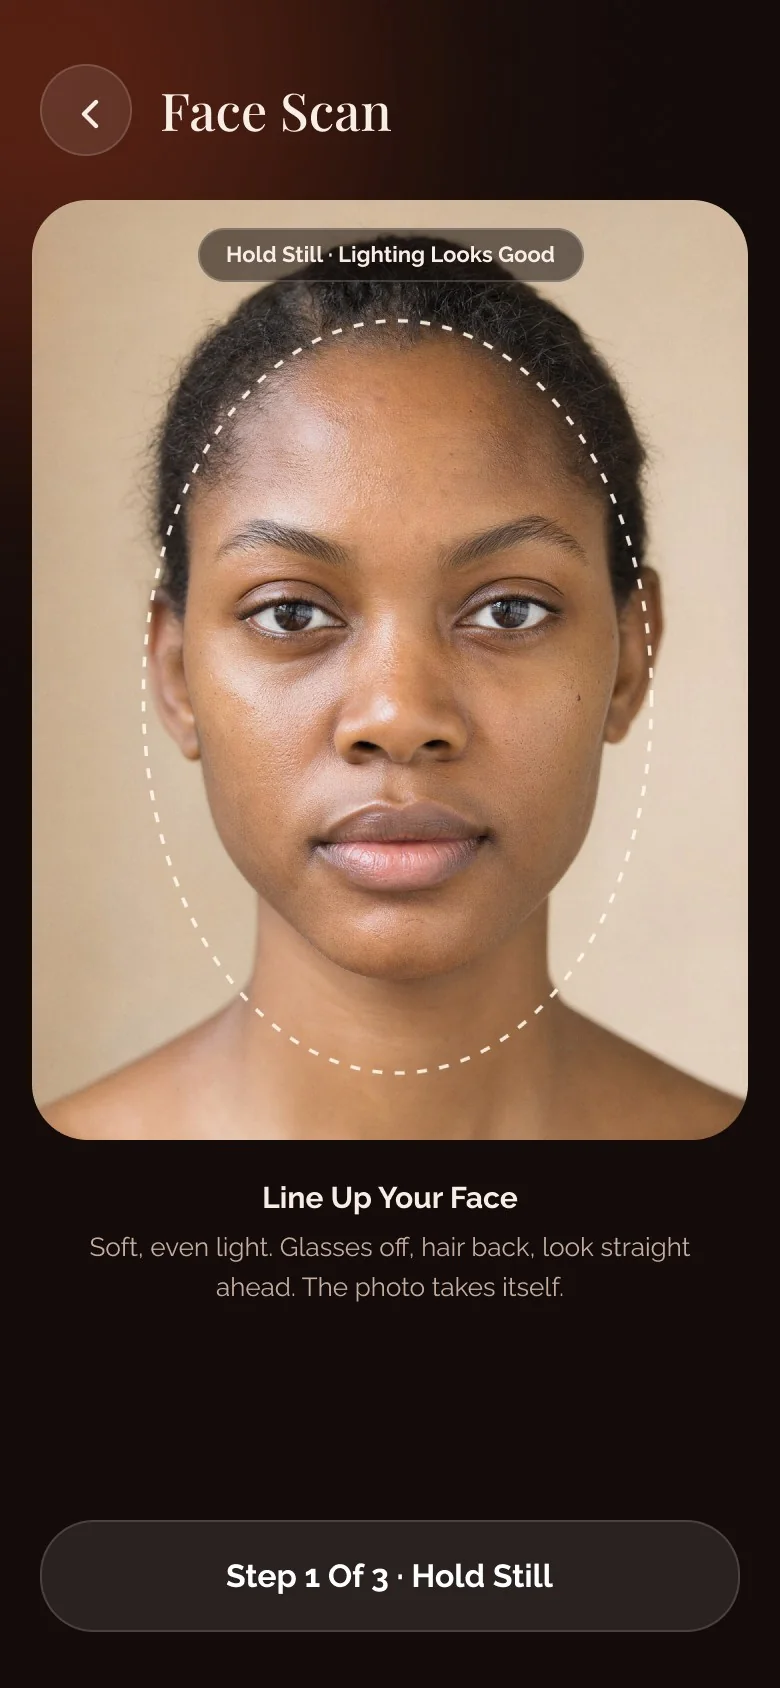
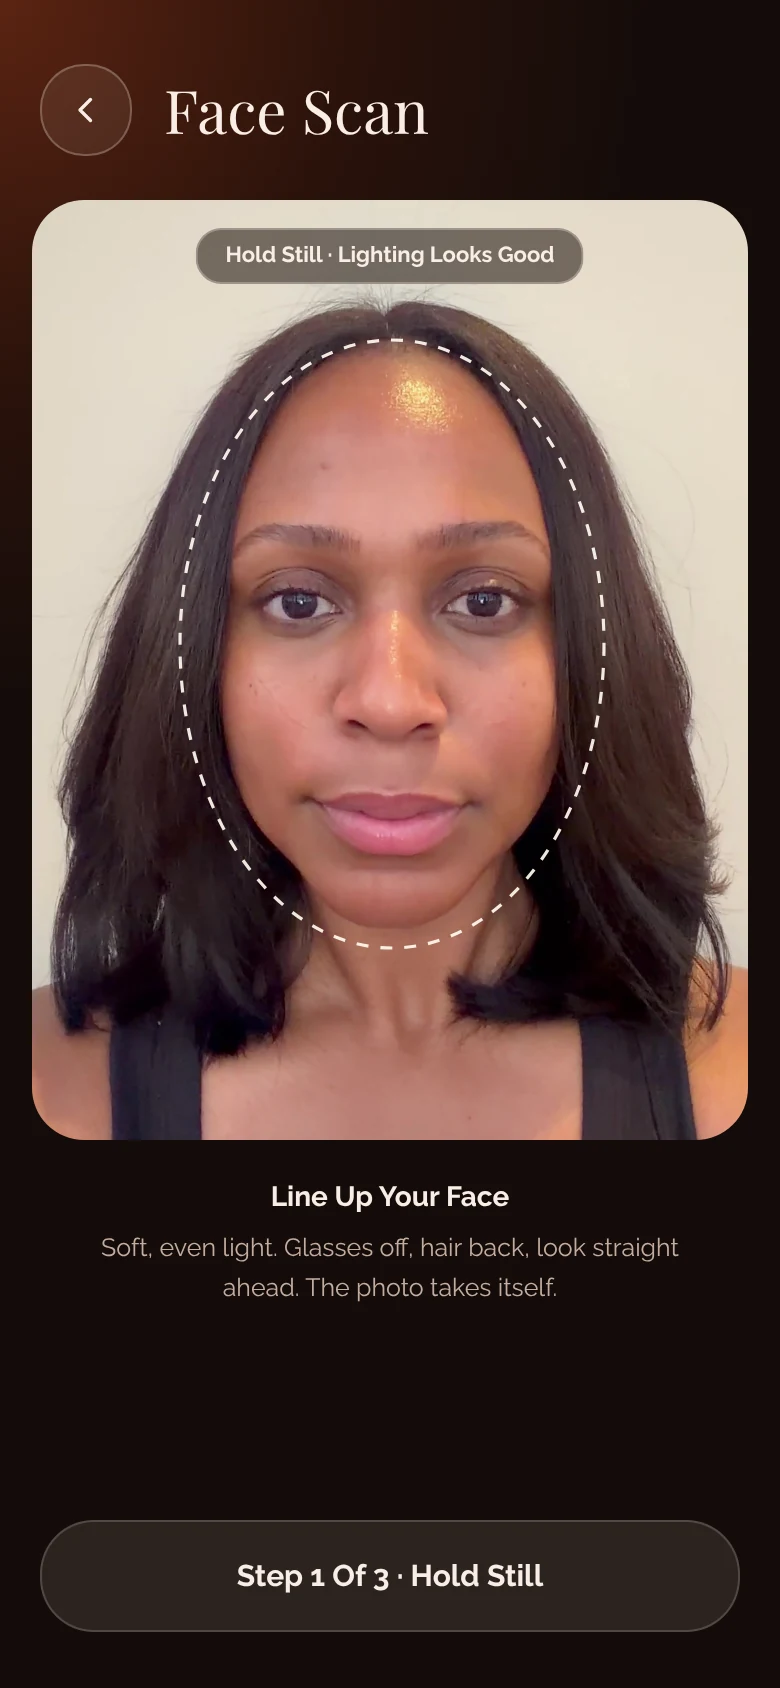
Homepage: real-face scan screens (Jelyn) with new heat map and ring-tile report
Replaces the AI-generated face on Face Scan and Skin Map, and the old
bar-graph Skin Report, in the hero walkthrough, How It Works and the
scroll story. Screens are captured from the live /test flow run on a
still from Jelyn's own video (Skin Score 66), so every score matches
across screens.

Claude-Session: https://claude.ai/code/session_01HJqh9kkP3HDootuyJF4W83

diff --git a/index.html b/index.html
@@ -129,7 +129,7 @@ img{max-width:100%}
 .demo-sweep{position:absolute;left:6%;right:6%;top:12%;height:2px;border-radius:2px;background:linear-gradient(90deg,transparent,#FFD530,transparent);box-shadow:0 0 18px 4px rgba(255,213,48,.45);opacity:0}
 .demo-screen.is-active .demo-sweep{animation:demoSweep 1.6s ease-in-out .3s 2}
 @keyframes demoSweep{0%{top:12%;opacity:0}10%{opacity:1}90%{opacity:1}100%{top:52%;opacity:0}}
-.demo-ping{position:absolute;left:50%;top:44%;width:46px;height:46px;margin:-23px 0 0 -23px;border-radius:50%;border:2px solid rgba(255,213,48,.9);opacity:0}
+.demo-ping{position:absolute;left:50%;top:33%;width:46px;height:46px;margin:-23px 0 0 -23px;border-radius:50%;border:2px solid rgba(255,213,48,.9);opacity:0}
 .demo-screen.is-active .demo-ping{animation:demoPing 1.6s ease-out .5s 3}
 @keyframes demoPing{0%{transform:scale(.5);opacity:0}25%{opacity:1}100%{transform:scale(1.9);opacity:0}}
 .demo-screen[data-k="map"].is-active img{animation:demoZoom 4s ease-in-out both}
@@ -377,9 +377,9 @@ img{max-width:100%}
 <div class="float" style="position: relative; z-index: 2">
 <div class="phone-tilt" style="width: 300px; border-radius: 52px; padding: 10px; background: linear-gradient(160deg, #3a2a20, #0B0604 40%, #1a110c); box-shadow: 0 70px 120px rgba(0,0,0,0.65), 0 0 0 1px rgba(255,251,247,0.14), inset 0 1px 0 rgba(255,251,247,0.2); transform: perspective(1600px) rotateY(-14deg) rotateX(5deg) rotateZ(2deg)">
 <div class="demo" id="demo" role="group" aria-roledescription="app walkthrough" aria-label="Pulse app walkthrough: scan, heat map, results, routine and home">
-<div class="demo-screen is-active" data-k="scan"><img src="/assets/home/scan-lineup.webp" alt="Pulse Face Scan: line up your face" fetchpriority="high"><span class="demo-sweep" aria-hidden="true"></span></div>
-<div class="demo-screen" data-k="map"><img src="/assets/home/scan-heatmap.webp" alt="Pulse heat map showing pores on the nose with a score of 65"><span class="demo-ping" aria-hidden="true"></span></div>
-<div class="demo-screen demo-scroll" data-k="results"><img src="/assets/home/skin-report-full.webp" alt="Pulse Skin Report: skin score 73, focus areas, doing well and what it means" loading="lazy"></div>
+<div class="demo-screen is-active" data-k="scan"><img src="/assets/home/scan-lineup.webp" alt="Pulse Face Scan: Jelyn lining up her face" fetchpriority="high"><span class="demo-sweep" aria-hidden="true"></span></div>
+<div class="demo-screen" data-k="map"><img src="/assets/home/scan-heatmap.webp" alt="Pulse Skin Map: a soft heat map on Jelyn's face showing pores on the T-zone, scored 40"><span class="demo-ping" aria-hidden="true"></span></div>
+<div class="demo-screen demo-scroll" data-k="results"><img src="/assets/home/skin-report-full.webp" alt="Pulse Skin Report: skin score 66, with Focus First and Doing Well score tiles" loading="lazy"></div>
 <div class="demo-screen" data-k="routine"><img src="/assets/home/todays-routine.webp" alt="Pulse Today screen with a four-step AM routine" loading="lazy"></div>
 <div class="demo-screen" data-k="home"><img src="/assets/home/home-morning.webp" alt="Pulse Home screen: skin score 81, up 8 this month" loading="lazy"></div>
 </div>
@@ -476,7 +476,7 @@ img{max-width:100%}
 
 <div style="flex: none; width: 236px; scroll-snap-align: start; display: flex; flex-direction: column; gap: 16px">
 <div style="border-radius: 38px; padding: 7px; background: #120906; box-shadow: 0 24px 48px rgba(38,16,0,0.2)">
-<img loading="lazy" decoding="async" src="/assets/home/scan-lineup.webp" alt="Pulse app Face Scan screen with the Line Up Your Face guide" style="display: block; width: 100%; height: auto; border-radius: 31px">
+<img loading="lazy" decoding="async" src="/assets/home/scan-lineup.webp" alt="Pulse app Face Scan screen with Jelyn lining up her face" style="display: block; width: 100%; height: auto; border-radius: 31px">
 </div>
 <div>
 <p style="margin: 0; font-family: 'Gilda Display', Georgia, serif; font-size: 15px; color: #882E1A">01</p>
@@ -487,7 +487,7 @@ img{max-width:100%}
 
 <div style="flex: none; width: 236px; scroll-snap-align: start; display: flex; flex-direction: column; gap: 16px">
 <div style="border-radius: 38px; padding: 7px; background: #120906; box-shadow: 0 24px 48px rgba(38,16,0,0.2)">
-<img src="/assets/home/scan-heatmap.webp" alt="Pulse app Face Scan heat map screen showing pores on the nose" style="display: block; width: 100%; height: auto; border-radius: 31px">
+<img src="/assets/home/scan-heatmap.webp" alt="Pulse app Skin Map with a soft heat map showing pores on the T-zone" style="display: block; width: 100%; height: auto; border-radius: 31px">
 </div>
 <div>
 <p style="margin: 0; font-family: 'Gilda Display', Georgia, serif; font-size: 15px; color: #882E1A">02</p>
@@ -498,7 +498,7 @@ img{max-width:100%}
 
 <div style="flex: none; width: 236px; scroll-snap-align: start; display: flex; flex-direction: column; gap: 16px">
 <div style="border-radius: 38px; padding: 7px; background: #120906; box-shadow: 0 24px 48px rgba(38,16,0,0.2)">
-<img loading="lazy" decoding="async" src="/assets/home/skin-report.webp" alt="Pulse app Skin Report screen with a skin score of 73 and focus areas" style="display: block; width: 100%; height: auto; border-radius: 31px">
+<img loading="lazy" decoding="async" src="/assets/home/skin-report.webp" alt="Pulse app Skin Report with a skin score of 66 and score tiles for each measure" style="display: block; width: 100%; height: auto; border-radius: 31px">
 </div>
 <div>
 <p style="margin: 0; font-family: 'Gilda Display', Georgia, serif; font-size: 15px; color: #882E1A">03</p>
@@ -565,11 +565,11 @@ img{max-width:100%}
 <div style="position: relative; width: 300px; border-radius: 52px; padding: 10px; background: linear-gradient(160deg, #3a2a20, #0B0604 40%, #1a110c); box-shadow: 0 60px 110px rgba(38,16,0,0.32), 0 0 0 1px rgba(38,16,0,0.12)">
 <div style="position: relative; width: 280px; height: 606px; border-radius: 42px; overflow: hidden; background: #120906">
 
-<img loading="lazy" decoding="async" class="story-screen" data-step="0" src="/assets/home/scan-lineup.webp" alt="Pulse app Face Scan screen with the Line Up Your Face guide" style="position: absolute; inset: 0; width: 100%; height: 100%; object-fit: cover; opacity: 1; transform: scale(1)">
+<img loading="lazy" decoding="async" class="story-screen" data-step="0" src="/assets/home/scan-lineup.webp" alt="Pulse app Face Scan screen with Jelyn lining up her face" style="position: absolute; inset: 0; width: 100%; height: 100%; object-fit: cover; opacity: 1; transform: scale(1)">
 
-<img class="story-screen" src="/assets/home/scan-heatmap.webp" alt="Pulse app Face Scan heat map screen showing pores on the nose" style="position: absolute; inset: 0; width: 100%; height: 100%; object-fit: cover; opacity: 0; transform: scale(0.96)">
+<img class="story-screen" src="/assets/home/scan-heatmap.webp" alt="Pulse app Skin Map with a soft heat map showing pores on the T-zone" style="position: absolute; inset: 0; width: 100%; height: 100%; object-fit: cover; opacity: 0; transform: scale(0.96)">
 
-<img loading="lazy" decoding="async" class="story-screen" data-step="1" src="/assets/home/skin-report.webp" alt="Pulse app Skin Report screen with a skin score of 73 and focus areas" style="position: absolute; inset: 0; width: 100%; height: 100%; object-fit: cover; opacity: 0; transform: scale(0.96)">
+<img loading="lazy" decoding="async" class="story-screen" data-step="1" src="/assets/home/skin-report.webp" alt="Pulse app Skin Report with a skin score of 66 and score tiles for each measure" style="position: absolute; inset: 0; width: 100%; height: 100%; object-fit: cover; opacity: 0; transform: scale(0.96)">
 
 <img loading="lazy" decoding="async" class="story-screen" data-step="2" src="/assets/home/todays-routine.webp" alt="Pulse app Today screen with a four-step AM routine" style="position: absolute; inset: 0; width: 100%; height: 100%; object-fit: cover; opacity: 0; transform: scale(0.96)">
 
